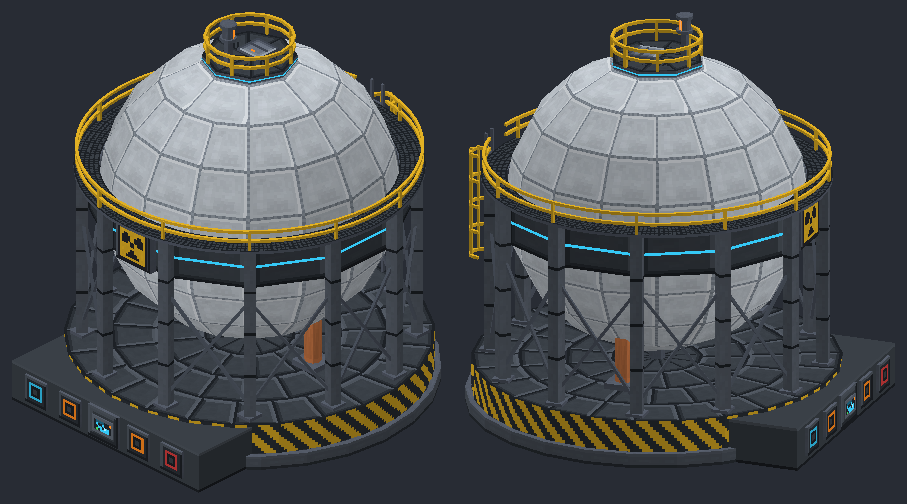
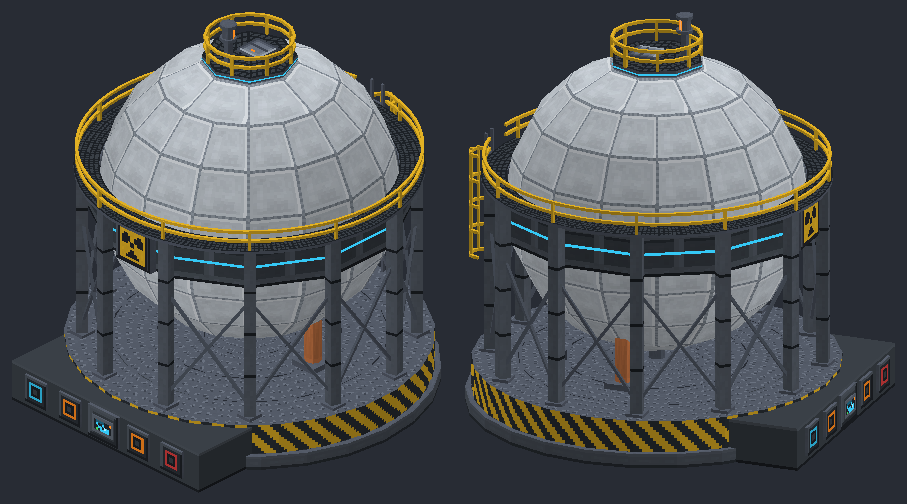
Breeder: tread plate floor, a girder belt and a grated platform, in place of the framed plates

diff --git a/art/tools/breeder_textures.py b/art/tools/breeder_textures.py
@@ -2,9 +2,9 @@
 
 Drawn to the house style, and even: every texture is drawn for the shape it goes on, so each
 surface shows it whole, never a plate cut at an edge or squeezed out of shape.
-- Big faces (the sphere, the belt, the deck, the plinth) are one framed plate per panel: lit
-  along the top and left, shaded at the foot and right. The concept sizes those panels to match:
-  each of the sphere's latitude bands is one plate high, and every ring is cut into equal widths.
+- Big faces are drawn for their panels: the sphere's welded plates (one latitude band high),
+  the belt's girder (one panel between two legs), and the plinth's tread plate, a small repeating
+  pattern that reads the same on every piece of its round floor.
 - Narrow parts (the legs, the bracing, the handrail) have textures that read the same however
   narrow the face.
 - Bands shorter than a block (the plinth's lip) have a texture drawn at their height, band_<h>.
@@ -54,17 +54,43 @@ def shell():
     return t
 
 
-def deck():
-    """The platform's deck plates: graphite, with a row of grating slots across the middle."""
-    t = plate('S', 'M', 'b', 'T', 'U')
-    for x in range(4, 12, 2):
-        t.rect(x, 6, x, 9, 'U')
+def plinth():
+    """The plinth's floor: steel tread plate, gunmetal with short raised bars in the alternating
+    pattern industrial floors use, each lit on its upper edge and shadowed below. The pattern
+    repeats every 8 pixels, so every piece of the round floor shows it evenly."""
+    t = Tex()
+    t.rect(0, 0, 15, 15, 'u')
+    for cy in range(4):
+        for cx in range(4):
+            x0, y0 = cx * 4, cy * 4
+            if (cx + cy) % 2 == 0:
+                t.set(x0 + 1, y0 + 2, 's')
+                t.set(x0 + 2, y0 + 1, 's')
+                t.set(x0 + 2, y0 + 2, 'z')
+            else:
+                t.set(x0 + 1, y0 + 1, 's')
+                t.set(x0 + 2, y0 + 2, 's')
+                t.set(x0 + 1, y0 + 2, 'z')
     return t
 
 
-def plinth():
-    """The plinth's top plates: graphite floor, framed."""
-    return plate('S', 'M', 'b', 'T', 'U')
+def girder():
+    """The equator belt, a girder the legs hang from, drawn for one panel between two legs: a lit
+    top flange and a shaded bottom one, each with a row of bolts, a darker web between, and a
+    stiffener down the middle."""
+    t = Tex()
+    t.rect(0, 0, 15, 15, 'S')
+    t.rect(0, 0, 15, 2, 'b')
+    t.rect(0, 0, 15, 0, 'M')
+    t.rect(0, 13, 15, 15, 'b')
+    t.rect(0, 15, 15, 15, 'U')
+    t.rect(0, 3, 15, 3, 'T')
+    t.rect(7, 3, 8, 12, 'b')
+    t.rect(7, 3, 7, 12, 'M')
+    for x in range(2, 16, 4):
+        t.set(x, 1, 'L')
+        t.set(x, 14, 'M')
+    return t
 
 
 # ---------------------------------------------------------------- narrow parts and bands
@@ -174,8 +200,8 @@ BANDS = (5,)
 
 TEXTURES = {
     'shell': shell,
-    'deck': deck,
     'plinth': plinth,
+    'girder': girder,
     'rib': rib,
     'fitting': fitting,
     'rail': rail,

diff --git a/art/tools/breeder_concept.py b/art/tools/breeder_concept.py
@@ -188,7 +188,7 @@ d.lathe('breeder_fitting', [(EQUATOR - R, 0), (FOOT_Y, FOOT_R)], n=8)
 
 # ---------------------------------------------------------------- the girder belt round the equator
 belt_r = BELT_R
-plates('breeder_plinth', BELT[0], BELT[1], belt_r, n=LEGS)
+plates('breeder_girder', BELT[0], BELT[1], belt_r, n=LEGS)
 for y, up in ((BELT[1], True), (BELT[0], False)):
     inner = lat_point(math.asin((y - EQUATOR) / R))[1]
     d.annulus('breeder_fitting', y, inner, belt_r, up=up, n=LEGS * 2)
@@ -271,7 +271,7 @@ for t in (math.pi / 4, math.pi / 2, 3 * math.pi / 4):
 # ---------------------------------------------------------------- the platform on top
 PLAT_R = 16
 PLAT_Y = EQUATOR + R
-d.disc('breeder_deck', PLAT_Y - 2, PLAT_Y, PLAT_R, sides='breeder_fitting', n=8)
+d.disc('breeder_grate', PLAT_Y - 2, PLAT_Y, PLAT_R, sides='breeder_fitting', n=8)
 d.cylinder('glow', PLAT_Y - 1.5, PLAT_Y - 1, PLAT_R + 0.1, n=8)
 for k in range(8):
     d.post('breeder_rail', 2 * math.pi * (k + 0.5) / 8, PLAT_R - 1, PLAT_Y, PLAT_Y + 7, 0.5, 0.5)

diff --git a/docs/DESIGN.md b/docs/DESIGN.md
@@ -385,10 +385,10 @@ Real basis: every pass through a thermal reactor builds up heavier plutonium iso
 Concept in `art/tools/breeder_concept.py` (textures `breeder_textures.py`, render `art/concepts/breeder.png`). 9 blocks across and about 8 high.
 - **A steel sphere on legs.** Real basis: the Dounreay Fast Reactor, a sodium-cooled fast breeder, was housed in a great steel sphere, and the shape is the refinery's Horton sphere: welded plates standing on a ring of legs with cross bracing. The core sits in a pool of liquid sodium inside, sealed from the air.
 - **Sealed, not seen through.** Sodium is opaque, so there is no glass: the station is the reactor you watch, the breeder the one you run. Smooth off-white painted plates (its own texture, not the machines' framed panel) in ten latitude bands, 16 round the middle and 8 nearest the poles, joined by thin weld seams running pole to pole as a sphere of tapered plates is built.
-- **The girder belt** at the equator, where the 12 legs meet the sphere: graphite, with a cyan light strip and the radiation trefoil on the front (multiblocks may carry one). The legs are braced in every bay but the front, which stays open so the console and trefoil read.
+- **The girder belt** at the equator, where the 12 legs meet the sphere: a graphite girder (flanges, bolt rows, a stiffener per panel), with a cyan light strip and the radiation trefoil on the front (multiblocks may carry one). The legs are braced in every bay but the front, which stays open so the console and trefoil read.
 - **Getting up it:** a grated walkway round the belt with a yellow handrail, reached by a caged ladder up the back. The railed platform on top carries the fuel hatch over the core and a cyan light strip round its edge. (A spiral stair from the walkway to the platform was tried and set aside, 30 Sep 2026.)
 - **The beacon** on a mast at the platform's front: an amber lamp half covered by its reflector, turned by a block entity renderer while the reactor runs, so a running breeder shows from across a base (as the station's aviation beacons mark it). The breeder's one moving part, drawn in its own group.
-- **Below the sphere:** footings under the legs, a drain line from the sphere's foot, and two copper sodium lines from its underside into the plinth.
+- **Below the sphere:** a floor of steel tread plate on the plinth, footings under the legs, a drain line from the sphere's foot, and two copper sodium lines from its underside into the plinth.
 - **The console** on the front, proud of the plinth: as you face it, fuel in and liquid sodium in on the left, the output port (spent fuel and what the blanket bred) and energy out on the right, the control core's screen in the middle.
 - **Even textures:** the sphere's radius makes each latitude band exactly one plate high; the plate counts only halve from band to band, and where they do each wide plate is drawn in two halves meeting the narrow plates' corners, so the surface closes with no gaps; the belt's panels meet at the legs, and decals are drawn at their exact size.
 - Earlier passes (a round tank with its machinery on the roof, then the tank alone) were set aside on 30 Sep 2026; they are in git history.
